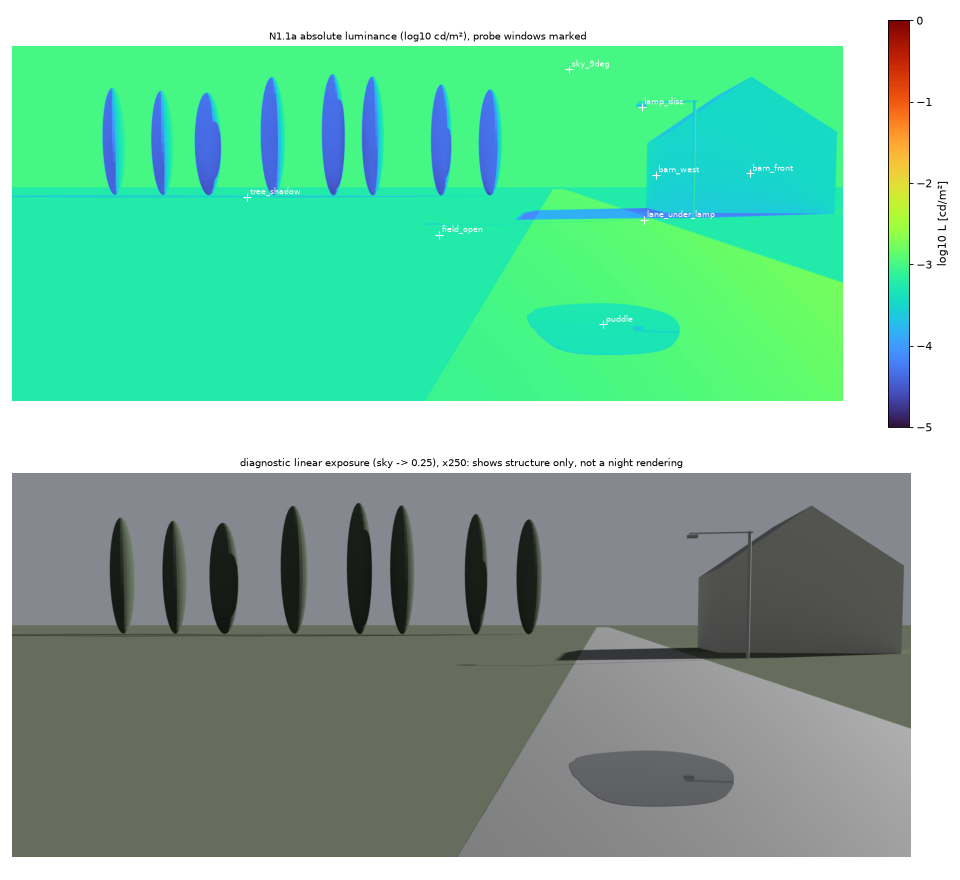
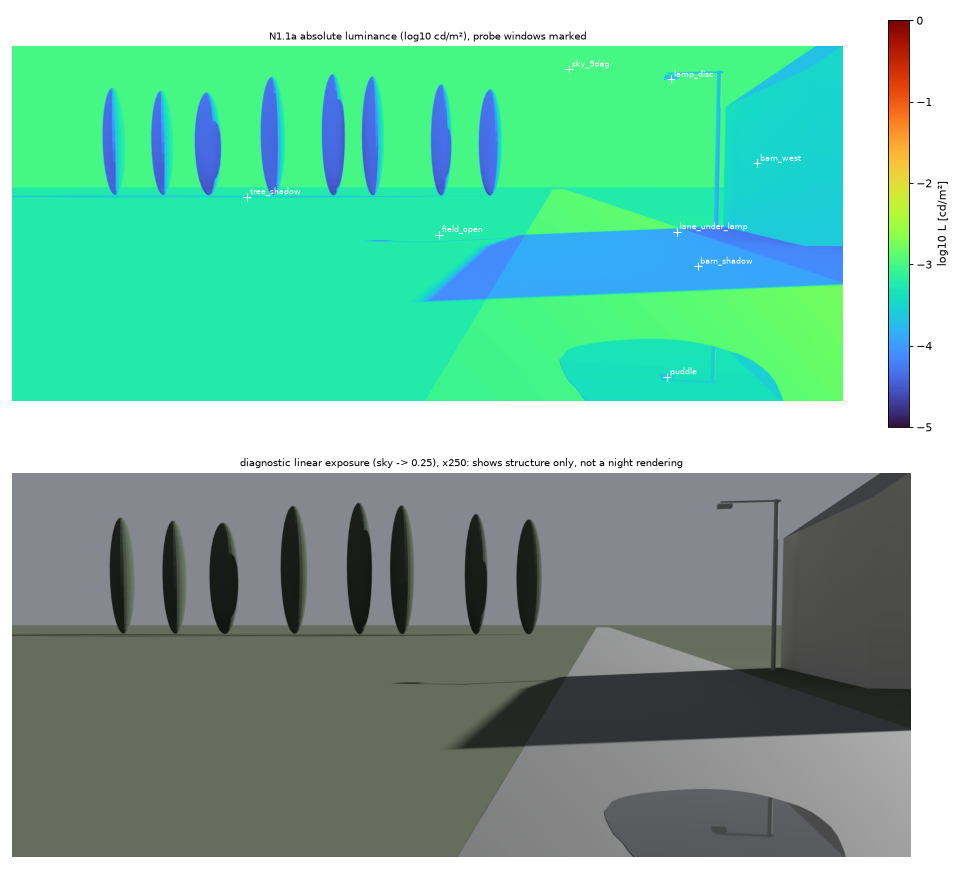
N1.1a complete with addendum-2 geometry: barn shadow in frame (8.7%), 7.6x darker, open-field photometry unchanged; lamp + disc probes added for N1.1b
Claude-Session: https://claude.ai/code/session_01KT7Dm2rHZVHPLpe72FXMQ4

Changed region(s): [[0.4688, 0.5216, 0.9688, 0.9818], [0.4375, 0.0307, 0.875, 0.4602], [0.7188, 0.583, 0.75, 0.6136]]

diff --git a/n1/scene/scene.py b/n1/scene/scene.py
@@ -36,7 +36,7 @@ RES = (round(1920 * RES_SCALE), round(820 * RES_SCALE))
 # --- authored photometry (PREREG table) ---
 MOON_E_H_LX, MOON_ELEV_DEG, MOON_BEARING_DEG = 0.02, 25.0, 50.0       # bearing clockwise from +y; view centre = -10
 SKY_CDM2 = 1e-3
-LAMP_LM, LAMP_HALF_DEG, LAMP_BLEND, LAMP_R, LAMP_POS = 2000.0, 70.0, 0.3, 0.15, (4.5, 40.0, 5.9)
+LAMP_LM, LAMP_HALF_DEG, LAMP_BLEND, LAMP_R, LAMP_POS = 2000.0, 70.0, 0.3, 0.15, (4.5, 30.0, 5.9)   # addendum 2
 WINDOW_CDM2 = 10.0
 # Cycles >= 4.0 spot mask: smoothstep((cos t - c0) / ((1 - c0) * blend)), no extra cosine. Flux through the cone
 # for uniform on-axis intensity I0: 2 pi I0 (1 - c0)(1 - blend/2)  ->  I0 for 2000 lm.
@@ -131,7 +131,7 @@ MAT = {"field": material("field", 0.08, (0.9, 1.0, 0.7), 0.95, spec=0.0), "aspha
 # --- ground, lane, puddle ---
 mesh("field", [(-20000, -5000, 0), (20000, -5000, 0), (20000, 30000, 0), (-20000, 30000, 0)], [(0, 1, 2, 3)], MAT["field"])
 mesh("lane", [(-1, -5, 0.003), (5, -5, 0.003), (5, 400, 0.003), (-1, 400, 0.003)], [(0, 1, 2, 3)], MAT["asphalt"])
-PUDDLE_C, PUDDLE_AX = (0.6, 9.0), (0.9, 1.8)
+PUDDLE_C, PUDDLE_AX = (1.0, 6.6), (0.9, 1.8)                       # addendum 2: lamp mirror point
 n = 48; rp = random.Random(3)
 pv = [(PUDDLE_C[0] + PUDDLE_AX[0] * (1 + 0.12 * math.sin(3 * t) * rp.uniform(0.6, 1)) * math.cos(t),
        PUDDLE_C[1] + PUDDLE_AX[1] * (1 + 0.12 * math.sin(2 * t + 1)) * math.sin(t), 0.006)
@@ -149,14 +149,14 @@ for i in range(8):
     t = add(bpy.ops.mesh.primitive_uv_sphere_add, MAT["poplar"], radius=1, location=(x, y, hgt / 2), segments=24, ring_count=16)
     t.scale = (rng.uniform(1.8, 2.6), rng.uniform(1.8, 2.6), hgt / 2)
     TREES.append((x, y, hgt))
-BX0, BX1, BY0, BY1, BH, BR = 7.0, 17.0, 48.0, 58.0, 5.0, 8.5
+BX0, BX1, BY0, BY1, BH, BR = 7.0, 17.0, 22.0, 32.0, 5.0, 8.5   # addendum 2
 wall_v = [(BX0, BY0, 0), (BX1, BY0, 0), (BX1, BY1, 0), (BX0, BY1, 0), (BX0, BY0, BH), (BX1, BY0, BH), (BX1, BY1, BH),
           (BX0, BY1, BH), ((BX0 + BX1) / 2, BY0, BR), ((BX0 + BX1) / 2, BY1, BR)]
 mesh("barn_walls", wall_v, [(0, 1, 5, 4), (1, 2, 6, 5), (2, 3, 7, 6), (3, 0, 4, 7), (4, 5, 8), (6, 7, 9)], MAT["wall"])
 mesh("barn_roof", wall_v, [(4, 8, 9, 7), (8, 5, 6, 9)], MAT["roof"])
 
 # --- luminaire geometry (all stages: the scene is fixed; only the light and its emitter are staged) ---
-PX, PY = 7.2, LAMP_POS[1]
+PX, PY = 6.3, LAMP_POS[1]                                  # addendum 2: beside the barn west wall
 add(bpy.ops.mesh.primitive_cylinder_add, MAT["pole"], radius=0.08, depth=6.2, location=(PX, PY, 3.1))
 arm = add(bpy.ops.mesh.primitive_cube_add, MAT["pole"], size=1, location=((PX + LAMP_POS[0]) / 2, PY, 6.15))
 arm.scale = (PX - LAMP_POS[0] + 0.3, 0.08, 0.06)
@@ -230,8 +230,8 @@ if MODE == "hero":
     sc.render.resolution_x, sc.render.resolution_y = RES
     bpy.context.view_layer.update()
     pts = {"field_open": (-4, 25, 0), "tree_shadow": shadow_point(TREES[5]) + (0,), "lane_near": (2.5, 6, 0),
-           "puddle": PUDDLE_C + (0.006,), "lane_under_lamp": (LAMP_POS[0], LAMP_POS[1] - 2, 0),
-           "barn_front": (12, BY0, 2.5), "barn_west": (BX0, 53, 2.5), "sky_9deg": (3000 * math.sin(math.radians(1)), 3000 * math.cos(math.radians(1)), 3000 * math.tan(math.radians(9))),   # bearing +1 deg: clear of trees, lamp, barn
+           "puddle": PUDDLE_C + (0.006,), "lane_under_lamp": (LAMP_POS[0], LAMP_POS[1] - 2, 0.003),
+           "barn_front": (12, BY0, 2.5), "barn_west": (BX0, 27, 2.5), "barn_shadow": (3, 16, 0), "sky_9deg": (3000 * math.sin(math.radians(1)), 3000 * math.cos(math.radians(1)), 3000 * math.tan(math.radians(9))),   # bearing +1 deg: clear of trees, lamp, barn
            "lamp_disc": (LAMP_POS[0], LAMP_POS[1], 5.92)}
     px = {}
     for k, p in pts.items():
@@ -251,9 +251,9 @@ else:
     _nt = white.node_tree; _nt.nodes.clear(); _d = _nt.nodes.new("ShaderNodeBsdfDiffuse")
     _d.inputs["Color"].default_value = (1, 1, 1, 1); _d.inputs["Roughness"].default_value = 0.0
     _nt.links.new(_d.outputs[0], _nt.nodes.new("ShaderNodeOutputMaterial").inputs["Surface"])
-    probes = {"field_open": (-4, 25), "field_open_right": (25, 20), "tree_shadow": shadow_point(TREES[5]),
+    probes = {"barn_shadow": (3, 16), "field_open": (-4, 25), "field_open_right": (25, 20), "tree_shadow": shadow_point(TREES[5]),
               "lane_near": (2.5, 6)}
-    if STAGE in ("b", "c"):
+    if True:                                                   # lamp probes in every stage: stage a gives their moon+sky part
         for d in (0, 5, 10, 15, 20, 30):
             probes[f"lamp_y+{d}"] = (LAMP_POS[0], LAMP_POS[1] + d)
         for d in (10, 20, 30):
@@ -274,4 +274,9 @@ else:
         sc.render.filepath = f"{OUT}/probe_{STAGE}_{name}.exr"
         bpy.ops.render.render(write_still=True)
         bpy.data.objects.remove(pa)                            # one patch at a time: no patch lights another
+    if STAGE in ("b", "c"):                                    # L4: the emitter disc seen straight from below
+        cd = bpy.data.cameras.new("c_disc"); cd.type = "ORTHO"; cd.ortho_scale = 0.1
+        cam = bpy.data.objects.new("c_disc", cd); cam.location = (LAMP_POS[0], LAMP_POS[1], 5.0)
+        cam.rotation_euler = (math.pi, 0, 0); sc.collection.objects.link(cam); sc.camera = cam
+        sc.render.filepath = f"{OUT}/probe_{STAGE}_disc.exr"; bpy.ops.render.render(write_still=True)
     json.dump({k: list(v) for k, v in probes.items()}, open(f"{OUT}/probes_{STAGE}_xy.json", "w"), indent=1)

diff --git a/n1/probes.py b/n1/probes.py
@@ -50,15 +50,25 @@ if ST == "a":
                "sky_within_5pct": abs(Lh["sky_9deg"] / A["sky_cdm2"] - 1) <= 0.05,
                "field_L_vs_rhoE_over_pi": Lh["field_open"] / (A["materials"]["field"] * fo / np.pi),
                "sky_brighter_than_field": Lh["sky_9deg"] > Lh["field_open"],
-               "tree_shadow_E_below_open": E["tree_shadow"] < fo, "tree_shadow_L_below_open": Lh["tree_shadow"] < Lh["field_open"]}
+               "tree_shadow_E_below_open": E["tree_shadow"] < fo, "tree_shadow_L_below_open": Lh["tree_shadow"] < Lh["field_open"],
+               "barn_shadow_E_ratio_open_over_shadow_info": fo / E["barn_shadow"], "barn_shadow_L_ratio_info": Lh["field_open"] / Lh["barn_shadow"]}
     q = r["L2"]["field_L_vs_rhoE_over_pi"]
     r["L2"]["PASS"] = bool(r["L2"]["field_open_E_in_0.01_0.03"] and r["L2"]["sky_within_5pct"] and 1 / 3 <= q <= 3
                            and r["L2"]["sky_brighter_than_field"] and r["L2"]["tree_shadow_E_below_open"] and r["L2"]["tree_shadow_L_below_open"])
 else:
-    a = res["a"]["illuminance_lx"]; lamp = {k: E[k] - a.get(k, 0.0) for k in E if k.startswith("lamp")}
-    # stage-a has no lamp probes: their moon+sky part is measured in this stage by the same-geometry difference below
-    r["lamp_only_lx_note"] = "lamp probes minus the stage-a open-field illuminance scaled by nothing: see README"
-    r["lamp_probe_E_total_lx"] = {k: E[k] for k in E if k.startswith("lamp")}
+    a = res["a"]["illuminance_lx"]; lamp = {k: E[k] - a[k] for k in E if k.startswith("lamp")}
+    moon = a["field_open"] - np.pi * A["sky_cdm2"]                  # the moon's own horizontal illuminance (measured)
+    far = {k: v for k, v in lamp.items() if k in ("lamp_y+30", "lamp_y-30", "lamp_x-30")}
+    disc = float(K * np.median(ld(f"{W}/probe_{ST}_disc.exr") @ YW))
+    pred_E0, pred_disc = A["lamp_I0_cd"] / A["lamp_height_m"] ** 2, A["lamp_disc_cdm2"]
+    r["lamp_only_lx"] = lamp; r["moon_only_lx"] = moon
+    r["L3"] = {"under_lamp_lx": lamp["lamp_y+0"], "under_in_5_30": 5 <= lamp["lamp_y+0"] <= 30,
+               "at_30m_lx": far, "at_30m_below_10pct_moon": all(v < 0.1 * moon for v in far.values())}
+    r["L3"]["PASS"] = bool(r["L3"]["under_in_5_30"] and r["L3"]["at_30m_below_10pct_moon"])
+    r["L4"] = {"disc_cdm2": disc, "pred_I0_over_A": pred_disc, "disc_ratio": disc / pred_disc,
+               "under_lamp_ratio_to_I0_over_h2": lamp["lamp_y+0"] / pred_E0, "pred_E0_lx": pred_E0}
+    r["L4"]["PASS"] = bool(abs(r["L4"]["disc_ratio"] - 1) <= 0.1 and abs(r["L4"]["under_lamp_ratio_to_I0_over_h2"] - 1) <= 0.1)
+    r["outside_unchanged_vs_a"] = {k: E[k] / a[k] for k in ("field_open", "tree_shadow") if k in a}
 json.dump({**res, ST: r}, open("n1/probes.json", "w"), indent=1, default=float)
 print(json.dumps(r, indent=1, default=float)[:3000])
 # diagnostic preview: log10 luminance (false colour, decades) and one linear exposure (sky -> 0.25 display): NOT a render
@@ -68,7 +78,7 @@ im = ax[0].imshow(np.log10(np.maximum(Y, 1e-6)), cmap="turbo", vmin=-5, vmax=0);
 for k, v in px.items():
     if v["in_frame"]: ax[0].plot(v["x"], v["y"], "w+", ms=8); ax[0].text(v["x"] + 6, v["y"] - 6, k, color="w", fontsize=7)
 ax[0].set_title(f"N1.1{ST} absolute luminance (log10 cd/m²), probe windows marked", fontsize=9)
-g = 0.25 / Lh["sky_9deg"]; lin = np.clip(img * K * g, 0, 1); srgb = np.where(lin <= 0.0031308, 12.92 * lin, 1.055 * lin ** (1 / 2.4) - 0.055)
+g = 0.25 / res.get("a", r)["hero_luminance_cdm2"]["sky_9deg"]; lin = np.clip(img * K * g, 0, 1); srgb = np.where(lin <= 0.0031308, 12.92 * lin, 1.055 * lin ** (1 / 2.4) - 0.055)
 ax[1].imshow(srgb); ax[1].set_title(f"diagnostic linear exposure (sky -> 0.25), x{g:.0f}: shows structure only, not a night rendering", fontsize=9)
 for a_ in ax: a_.axis("off")
 plt.tight_layout(); plt.savefig(f"n1/renders/raw/n1_1{ST}_preview.png", dpi=80)

diff --git a/n1/README.md b/n1/README.md
@@ -42,11 +42,23 @@ second was out of frame. It now sits at bearing +1°, elevation 9°.
 - The poplar row at 76 m had its crowns cut off by the top of the frame. It moved to 125 m (height 16–22 m, tops ≤ 10°),
   so the whole silhouettes stand against the sky.
 
-## Open: the "almost vanishing" region (stop condition 5: reported, not fixed)
-In this layout the moon's shadows are **physically only slivers** in the frame. From 1.7 m eye height a ground shadow
-80–130 m away subtends ≲ 1°, and with the moon 60° to the side the poplars' and barn's shadows run back-left, away
-from the view. The pre-registered element *"a region that should almost vanish: the ground under the poplars in
-their moon shadow"* is therefore not present in the picture. It exists only in the probe (0.0029 lx).
+## The "almost vanishing" region → addendum 2 (geometry): **N1.1a complete**
+With the first layout the moon's shadows were only slivers in the frame (1.7 m eye height; the shadows 80–130 m
+away, pointing back-left). This was reported under stop condition 5. The user chose option A, frozen in addendum 2:
+- barn at x 7–17, y 22–32;
+- lamp head (4.5, 30, 5.9), pole at x = 6.3;
+- puddle at the lamp mirror point (1.0, 6.6).
 
-Fixing it is a scene-design decision (an occluder near the camera, and/or the moon's direction), so it goes to the
-user before N1.1b.
+The user's three checks:
+1. **The barn shadow is in the frame.** Ground below half the open-field luminance covers 8.7 % of the frame (17 % of
+   the lower half): a band across the lane and the field edge.
+2. **Inside it** (3, 16): 0.0031 lx, **7.6× darker** than the open field (luminance ×4.6 on the shadowed asphalt).
+   The same order as the tree shadow (8×).
+3. **Outside it, unchanged.** Open field 0.02308 vs 0.02313 lx, luminance 5.88 vs 5.89·10⁻⁴, sky 1.000·10⁻³, tree
+   shadow identical, **L1 + L2 PASS**. The field probe right beside the barn rose 1.3 % (bounce off its wall).
+
+Consequences predicted in addendum 2 and confirmed:
+- the puddle is moonlit and now reflects the pole;
+- the barn is cropped by the right and top edges;
+- the lamp foot (4.5, 30) lies just outside the shadow (0.0227 lx moon + sky); lamp_y−10 (4.5, 20) is inside
+  (0.0029 lx).
